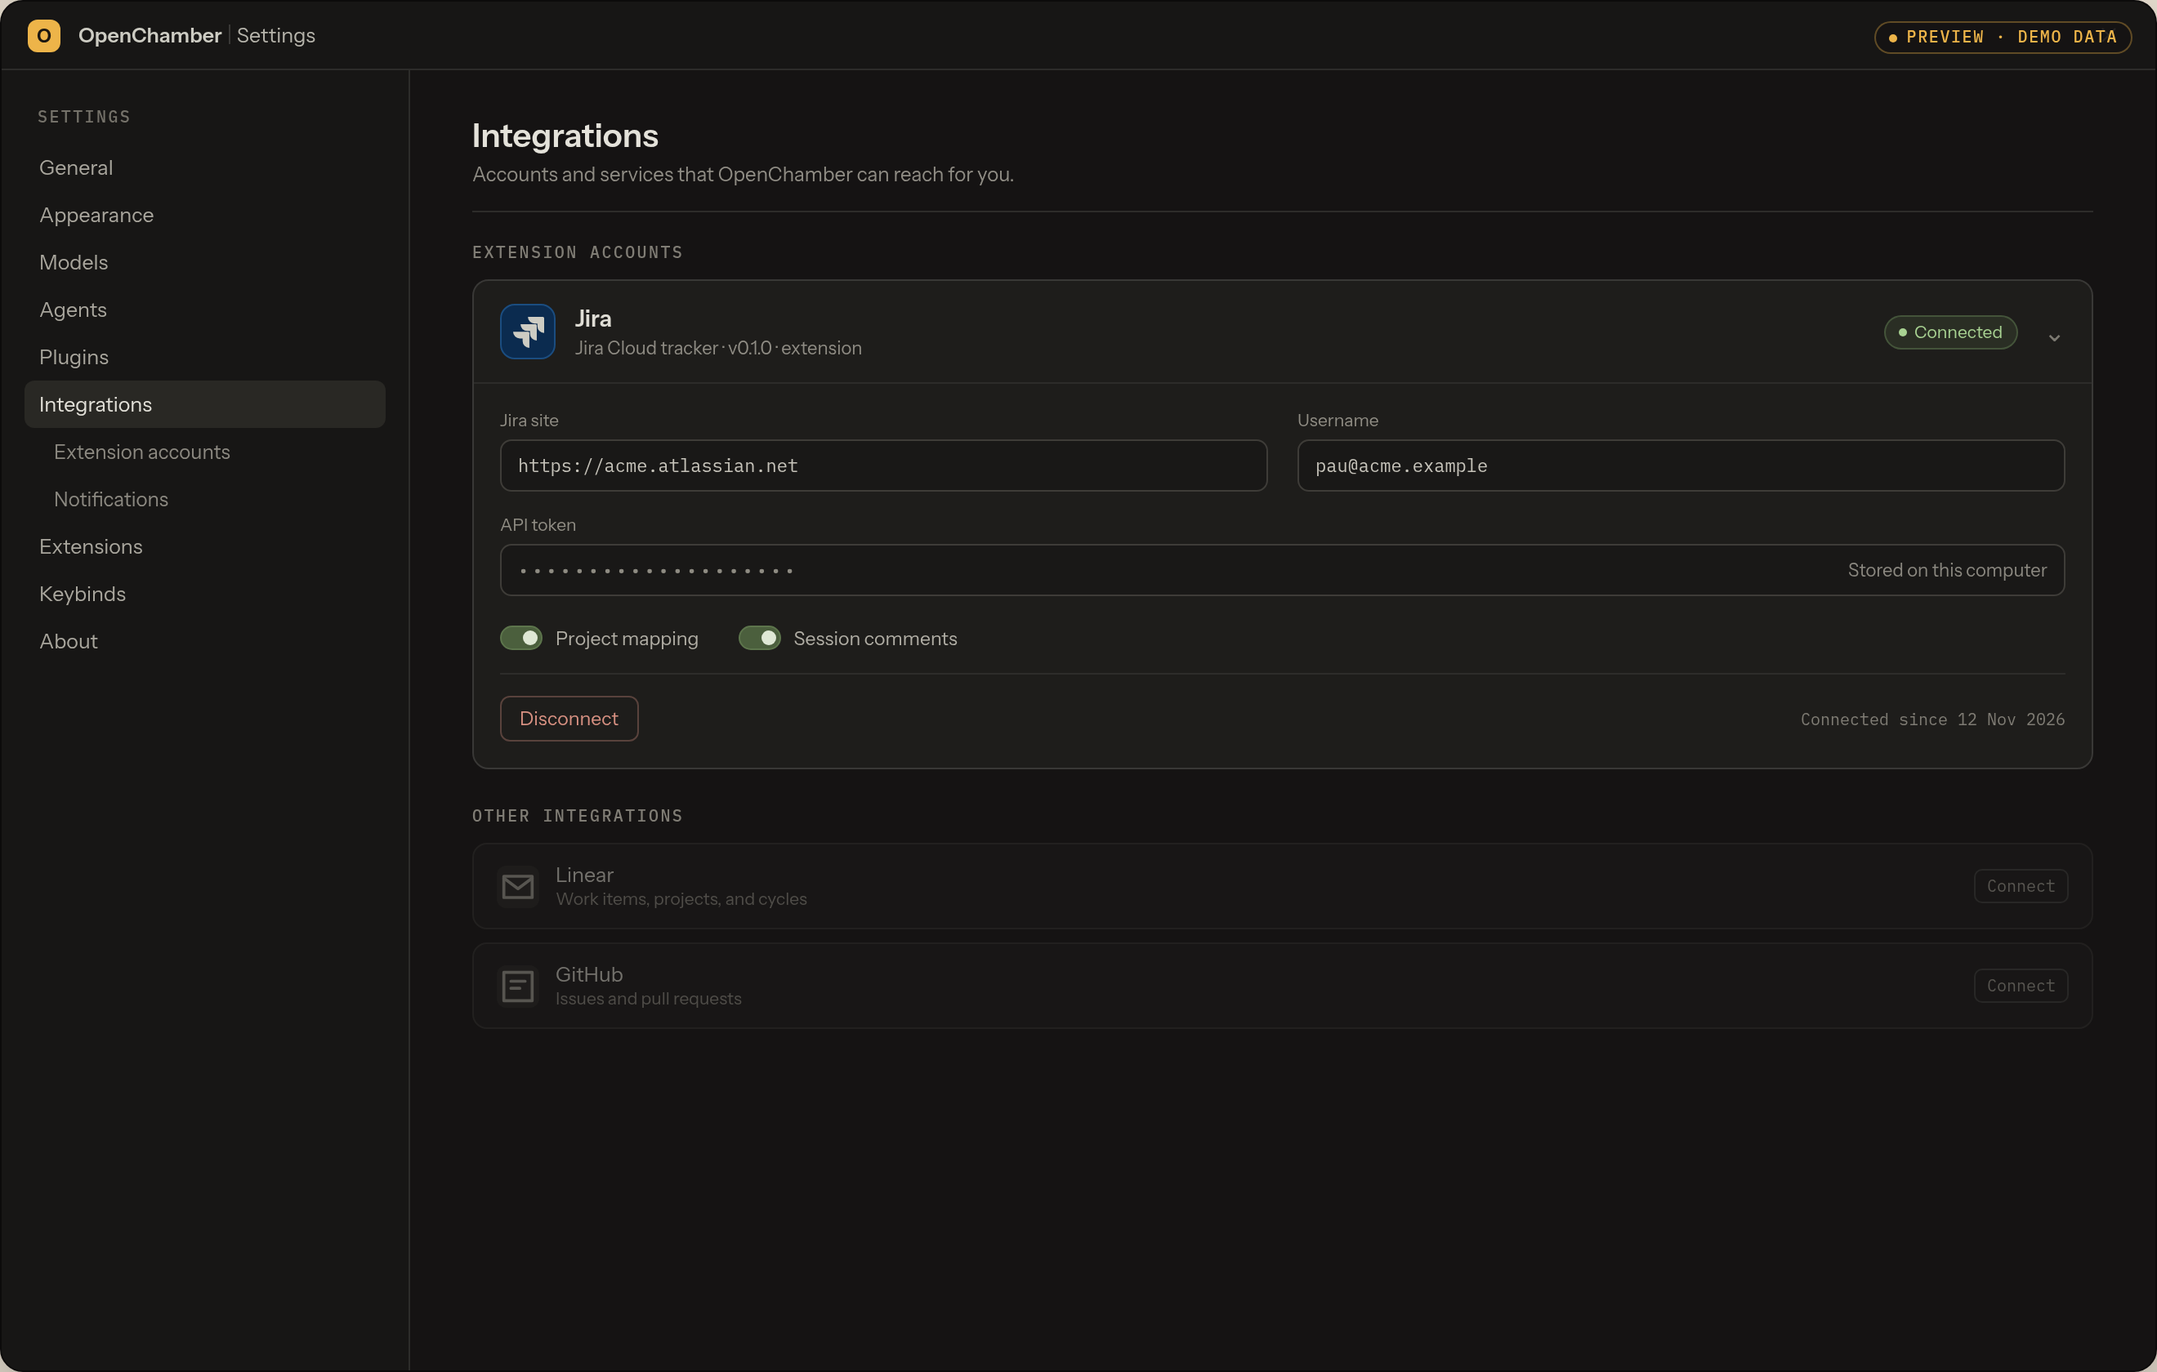
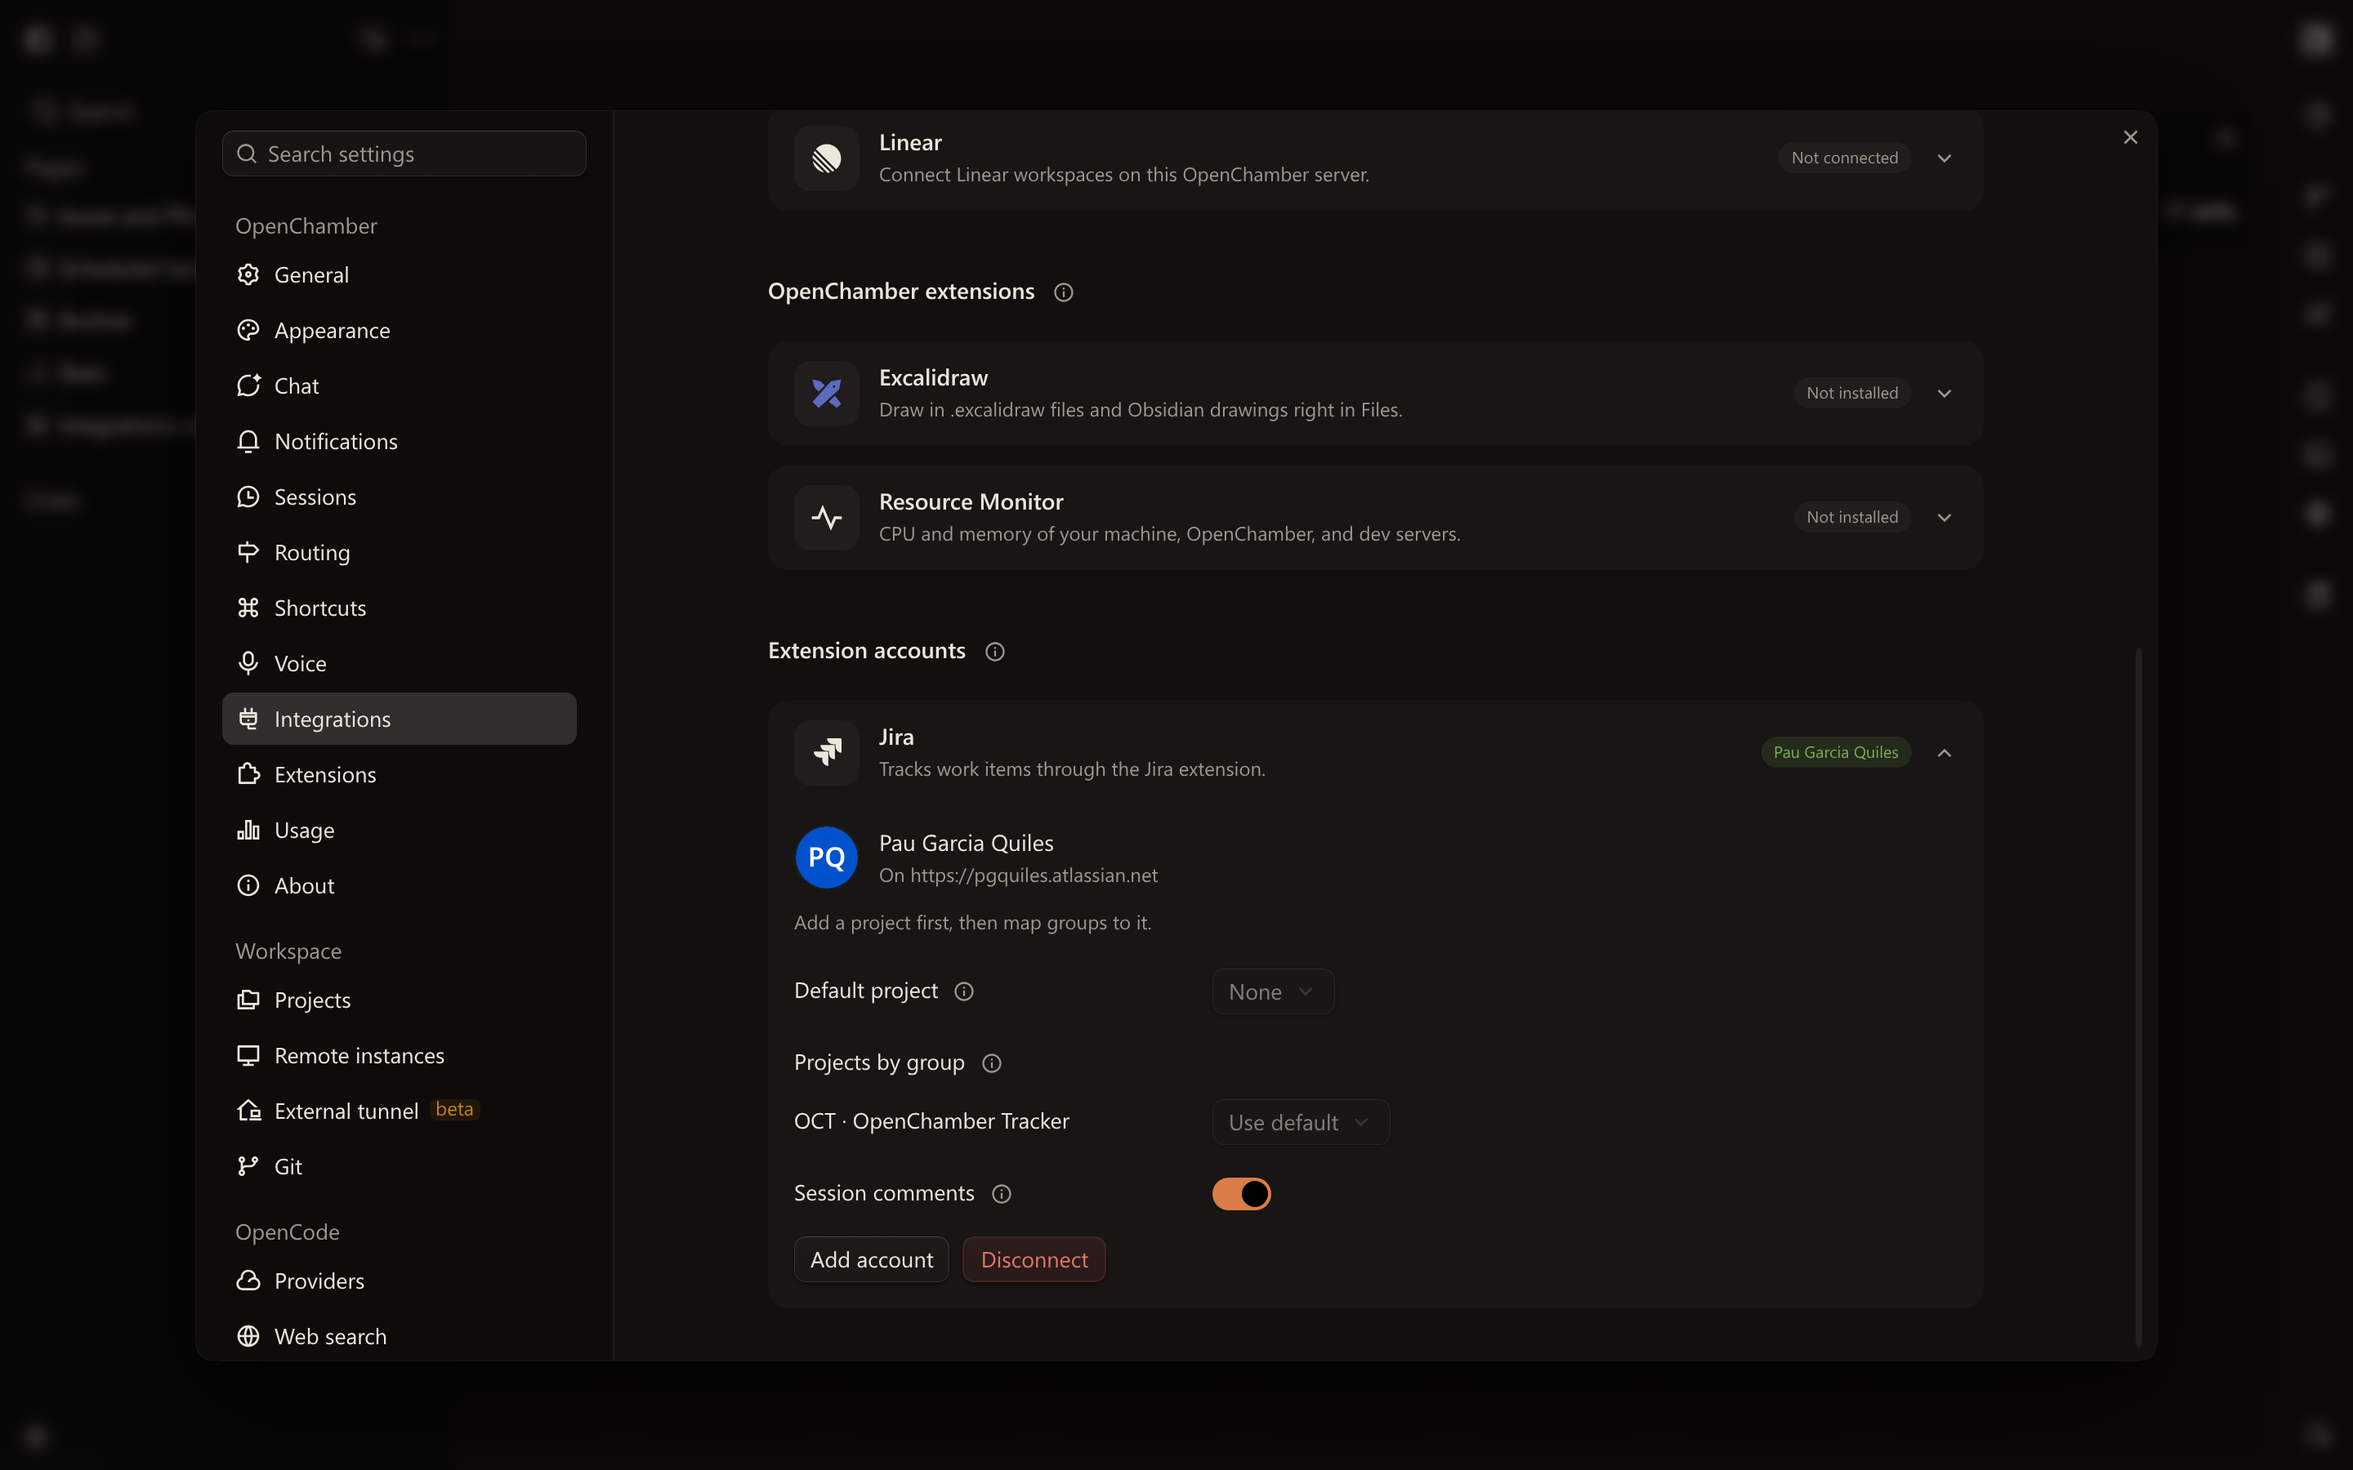
docs: replace the demo previews with live Jira captures (#12) (#27)

diff --git a/site/index.html b/site/index.html
@@ -67,7 +67,7 @@
         <div class="frame">
           <img src="assets/screenshots/issue-picker.png" alt="OpenChamber composer with the Jira issue picker open, showing issues assigned to the signed-in user" width="2880" height="1800" fetchpriority="high">
         </div>
-        <div class="hero-caption"><span class="dot"></span> The Jira picker in OpenChamber · preview with demo data</div>
+        <div class="hero-caption"><span class="dot"></span> The Jira picker in OpenChamber · captured on a Jira Cloud test site</div>
       </div>
     </div>
   </section>
@@ -159,33 +159,39 @@
           <h2>Three surfaces,<br>one <em>thread.</em></h2>
         </div>
         <div class="intro">
-          <p>The board's Jira tab, the composer picker, the issue panel, and the account card are the whole loop: find it, read it, move it, leave the context. The screenshots below are layouts rendered from demo data against OpenChamber 2.8.0.</p>
+          <p>The board's Jira tab, the composer picker, the issue panel, and the account card are the whole loop: find it, read it, move it, leave the context. The screenshots below are captures from OpenChamber 2.8.0 against a Jira Cloud test site.</p>
         </div>
       </div>
       <div class="shots">
-        <figure class="shot-card wide">
-          <div class="frame"><img src="assets/screenshots/issue-picker.png" alt="Jira issue picker open over the OpenChamber composer" width="2880" height="1800" loading="lazy"></div>
+        <figure class="shot-card">
+          <div class="frame"><img src="assets/screenshots/board.png" alt="OpenChamber issues board on the Jira tab, with the test project selected and its issues listed" width="2880" height="1800" loading="lazy"></div>
           <figcaption>
             <span class="cap-num">01</span>
+            <span class="cap-body"><b>Start on the board you already use</b>The Jira tab lists the project's issues, most recently updated first. Group, state, priority, and people filters become JQL.</span>
+          </figcaption>
+        </figure>
+        <figure class="shot-card">
+          <div class="frame"><img src="assets/screenshots/issue-picker.png" alt="Jira issue picker open over the OpenChamber composer" width="2880" height="1800" loading="lazy"></div>
+          <figcaption>
+            <span class="cap-num">02</span>
             <span class="cap-body"><b>Link an issue from the composer</b>The picker searches Jira as you type. People and state filters map to JQL, not to a local cache.</span>
           </figcaption>
         </figure>
         <figure class="shot-card">
-          <div class="frame"><img src="assets/screenshots/issue-panel.png" alt="Jira issue panel showing status, description, subtasks, comments, and available transitions" width="2360" height="1640" loading="lazy"></div>
+          <div class="frame"><img src="assets/screenshots/issue-panel.png" alt="Jira issue panel showing status, description, sub-issues, and comments" width="2880" height="1800" loading="lazy"></div>
           <figcaption>
-            <span class="cap-num">02</span>
-            <span class="cap-body"><b>Read and move it in the context panel</b>Description, subtasks, comments, available transitions, and the linked session — without opening Jira.</span>
+            <span class="cap-num">03</span>
+            <span class="cap-body"><b>Read and move it in the context panel</b>Description, sub-issues, comments, and the state control — without opening Jira.</span>
           </figcaption>
         </figure>
         <figure class="shot-card">
-          <div class="frame"><img src="assets/screenshots/account-card.png" alt="Settings integrations page with the Jira extension account connected" width="2640" height="1680" loading="lazy"></div>
+          <div class="frame"><img src="assets/screenshots/account-card.png" alt="Settings integrations page with the Jira extension account connected" width="2880" height="1800" loading="lazy"></div>
           <figcaption>
-            <span class="cap-num">03</span>
+            <span class="cap-num">04</span>
             <span class="cap-body"><b>Connect once, choose what syncs</b>The token stays in OpenChamber. Project mapping and session comments are opt-in.</span>
           </figcaption>
         </figure>
       </div>
-      <p class="demo-note"><span class="dot"></span> Previews use demo data, not a live Jira site. Replacing them with real captures is tracked in <a href="https://github.com/pgquiles/openchamber-jira/issues/12" target="_blank" rel="noopener">issue #12</a>.</p>
     </div>
   </section>
 
@@ -310,11 +316,6 @@
           <span class="r-num">#16</span><span class="r-title">Jira rail panel beside the chat</span>
           <span class="r-desc">Assigned issues, filters, and one selected issue in the right rail, with the board a click away. Needs a guest tracker read path upstream; <em>sketch included</em>.</span>
           <span class="r-labels"><span class="chip no">upstream</span><span class="chip info">jira</span></span>
-        </a></li>
-        <li><a href="https://github.com/pgquiles/openchamber-jira/issues/12" target="_blank" rel="noopener">
-          <span class="r-num">#12</span><span class="r-title">Live verification and real screenshots</span>
-          <span class="r-desc">Run the extension against a disposable Jira Cloud site, record the checklist, replace the demo previews.</span>
-          <span class="r-labels"><span class="chip warn">testing</span><span class="chip info">website</span></span>
         </a></li>
       </ul>
       <p style="margin-top:18px"><a href="https://github.com/pgquiles/openchamber-jira/issues" target="_blank" rel="noopener" style="font-weight:600;color:var(--jira)">All issues and labels →</a></p>

diff --git a/site/docs.html b/site/docs.html
@@ -142,6 +142,7 @@ npm run zip      # optional: openchamber-jira.zip</code></pre>
           <thead><tr><th>Symptom</th><th>What it usually means</th></tr></thead>
           <tbody>
             <tr><td>401</td><td>The token is wrong, expired, revoked, or blocked by an organization policy. Create a new token and reconnect.</td></tr>
+            <tr><td>A board that worked now lists nothing</td><td>The token was revoked or expired after connecting. Jira answers a search with an empty result for an invalid credential, so the account can still read “Connected”. Create a new token and reconnect.</td></tr>
             <tr><td>403</td><td>The account lacks a needed scope (scoped token) or Jira denied the call. Check scopes and site access.</td></tr>
             <tr><td>“Only Jira Cloud is supported”</td><td>The URL is Jira Server or Data Center, or <code>serverInfo</code> reports another deployment type.</td></tr>
             <tr><td>Timeout or network error</td><td>OpenChamber's proxy could not reach the site. Check the URL, VPN, and proxy settings.</td></tr>
@@ -176,7 +177,7 @@ npm run zip      # optional: openchamber-jira.zip</code></pre>
         <p>What an organization can still change:</p>
         <ul>
           <li><strong>API token policy.</strong> An organization admin can block members from creating or using user API tokens, or cap their lifetime, through an Atlassian Guard authentication policy. When that is on, Jira answers 401/403 and the extension cannot override it. The account needs an exception, a service account, or OAuth.</li>
-          <li><strong>Expiry and revocation.</strong> New tokens expire after one year by default, and admins can revoke them earlier. Reconnect with a fresh token when Jira starts answering 401.</li>
+          <li><strong>Expiry and revocation.</strong> New tokens expire after one year by default, and admins can revoke them earlier. After a revocation Jira's search answers with an empty result rather than 401, so a board that stops listing issues is the usual symptom; create a new token and reconnect.</li>
           <li><strong>Scopes.</strong> A scoped token needs <code>read:jira-work</code>, <code>write:jira-work</code>, and <code>read:jira-user</code>. A classic token works too, with the user's full access.</li>
           <li><strong>Product access.</strong> The account must still be a licensed Jira user with permission to browse the projects.</li>
         </ul>
@@ -376,7 +377,6 @@ npm run zip         # openchamber-jira.zip</code></pre>
           <li><strong>OAuth 2.0 3LO</strong> for organizations that block personal API tokens (<a href="https://github.com/pgquiles/openchamber-jira/issues/1" target="_blank" rel="noopener">#1</a>).</li>
           <li><strong>Create and edit issues</strong> — needs the tracker contract to grow (<a href="https://github.com/pgquiles/openchamber-jira/issues/2" target="_blank" rel="noopener">#2</a>, upstream <a href="https://github.com/openchamber/openchamber/issues/7647" target="_blank" rel="noopener">openchamber#7647</a>).</li>
           <li><strong>Token health</strong> — expiry, scopes, and a clear needs-attention state (<a href="https://github.com/pgquiles/openchamber-jira/issues/3" target="_blank" rel="noopener">#3</a>).</li>
-          <li><strong>Live verification</strong> against a real Jira Cloud site, and real screenshots (<a href="https://github.com/pgquiles/openchamber-jira/issues/12" target="_blank" rel="noopener">#12</a>).</li>
         </ol>
         <p>See all <a href="https://github.com/pgquiles/openchamber-jira/issues" target="_blank" rel="noopener">open issues and labels</a> for the full list.</p>
         <p class="next-prev"><a href="index.html">← Back to the overview</a><a href="index.html#install">Install →</a></p>

diff --git a/README.md b/README.md
@@ -165,8 +165,9 @@ What an organization can still change:
   extension cannot override it. The account needs an exception, a service
   account, or OAuth.
 - **Expiry and revocation.** New tokens expire after one year by default, and
-  admins can revoke them earlier. Reconnect with a fresh token when Jira starts
-  answering 401.
+  admins can revoke them earlier. After a revocation Jira's search answers with
+  an empty result rather than 401, so a board that stops listing issues is the
+  usual symptom; create a new token and reconnect.
 - **Scopes.** A scoped token needs `read:jira-work`, `write:jira-work` and
   `read:jira-user`. A classic token works too, with the user's full access.
 - **Product access.** The account must still be a licensed Jira user with
@@ -183,6 +184,7 @@ manifest change for Jira.
 | Symptom | Likely cause |
 | --- | --- |
 | 401 after connecting | Token expired, was revoked, or API token access is blocked by policy. Create a new token and reconnect. |
+| A board that worked now lists nothing | The token was revoked or expired after connecting. Jira answers a search with an empty result for an invalid credential, so the account can still read **Connected**; the board and the picker go empty. Create a new token and reconnect. |
 | 403 on connect | The account lacks `read:jira-user` (scoped token), or Jira denied the call. Check scopes and site permissions. |
 | Empty picker | The default view is **open issues you can see**; check the state filter, project access, and that the Jira account is the one you expect. Choose **Assigned to me** to narrow it to your queue. |
 | Connected, but no issues show | Open the **issues board** (`Ctrl/Cmd+K` then `B`) and choose the **Jira** tab, or use **+ → Link Jira Issue** in the composer. Settings shows only the connection and mapping. Typing `@` opens file mentions, not Jira. |
@@ -293,10 +295,12 @@ Ordered by what unlocks the most:
    now; a second site needs the host to store an instance per account
    ([#9](https://github.com/pgquiles/openchamber-jira/issues/9),
    [openchamber#7653](https://github.com/openchamber/openchamber/issues/7653)).
-7. **Live verification and real screenshots** against a disposable Jira Cloud
-   site ([#12](https://github.com/pgquiles/openchamber-jira/issues/12)). The
-   repeatable checklist is in
-   [`docs/live-verification.md`](docs/live-verification.md).
+
+The 15-point [live verification checklist](docs/live-verification.md) was run
+against a disposable Jira Cloud site with the 0.3.0 release and OpenChamber
+2.8.0. Its results are recorded on
+[#12](https://github.com/pgquiles/openchamber-jira/issues/12), and the
+checklist stays in the repository for the next release.
 
 The website lives in `site/` and deploys to GitHub Pages from `main` through
 `.github/workflows/pages.yml`. The extension has its own CI: every pull request

diff --git a/docs/live-verification.md b/docs/live-verification.md
@@ -64,13 +64,12 @@ Capture these against the disposable site, with the test data only:
       and the state control.
 - [ ] Settings → Integrations → Extension accounts, with the test account card.
 
-Use a 1440×900 viewport at 2× scale (the current site images are 2880×1800 and
-similar). Check every capture for tokens, email addresses, real project keys,
-and unrelated sessions before committing it.
+Use a 1440×900 viewport at 2× scale (the four site images are 2880×1800).
+Check every capture for tokens, email addresses, real project keys, and
+unrelated sessions before committing it.
 
-When all four images are replaced, remove the "preview with demo data" caption
-and the demo-note paragraph from `site/index.html`, and remove the #12 item from
-the roadmap sections.
+Replace all four images together, then remove any "demo data" caption or note
+that described the old previews.
 
 ## Recording the result
 
@@ -80,6 +79,31 @@ the roadmap sections.
   #12, and note whether it is extension-side or an upstream tracker-contract
   gap.
 - Keep the checklist in the repository so the next release can repeat it.
+
+## Last run
+
+2026-11-26, OpenChamber 2.8.0 with extension 0.3.0 (folder install) against a
+disposable Jira Cloud site. The test data was one team-managed software project
+and one company-managed project for the screen-gated transition. Full evidence
+is on [#12](https://github.com/pgquiles/openchamber-jira/issues/12); the four
+captures live in `site/assets/screenshots/`.
+
+- Checks 1–10 and 15 passed.
+- Check 11 passed with a caveat: Jira rejected the transition as expected, but
+  the message names the required field by its custom-field id
+  (`customfield_10046`) and the host reports HTTP 500 rather than Jira's 400.
+  Tracked in [#26](https://github.com/pgquiles/openchamber-jira/issues/26).
+- Check 12 passed with a caveat: the ADF comment posted once, a second start
+  was skipped as `already-posted`, and a non-public origin was skipped. The
+  session link itself pointed at a placeholder origin, because the local
+  deployment has no public URL.
+- Check 13 exposed a gap: a revoked token makes Jira answer the issue search
+  with an empty result, so the board goes empty while the account still reads
+  connected and valid. The needs-attention state is the upstream token-health
+  work in [#3](https://github.com/pgquiles/openchamber-jira/issues/3) and
+  [openchamber#7648](https://github.com/openchamber/openchamber/issues/7648).
+  Check 14 passed: reconnecting with a valid token restored the account and
+  the board without reinstalling anything.
 
 ## Cleanup
 
